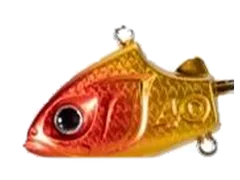
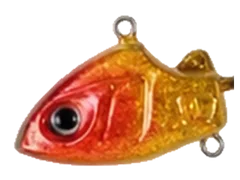
dragon-counter: SHIMANO サーベルマスター 船テンヤ photos from the official colour chart (owner-supplied), 30 ids; deploy
Claude-Session: https://claude.ai/code/session_01KgkKxnQ9YC7pAnWXdiqH87

diff --git a/sites/dragon-counter/CATALOG-UPDATE.md b/sites/dragon-counter/CATALOG-UPDATE.md
@@ -51,7 +51,8 @@
 
 - 元画像は `work/src/<id>.jpg|png`（git には入れない）。出どころは `work/retail.json`（id → url / page / src / name。手で切り抜いたものは `cropped`、頭だけに切り抜き済みで通常処理にするものは `plain: true`）
 - メーカー公式の色別写真：DAIWA（現行品）・JACKALL・START・DUO・HAYABUSA（`tools/tenya_images.py daiwa|jackall|start|duo|hayabusa` で取得）、Major Craft・YAMASHITA・マルシン・HAYABUSA SW409 は公式ページから手動取得
-- 公式に無いもの（SHIMANO 全部・DAIWA 旧型・OWNER・がまかつ・PRO MARINE など）は釣具店の色別商品写真（相模屋・マルニシ・ポイント・ポイント東日本・フィッシングマックス・キャスティング・釣人館 などの Yahoo!店）。店の写真は `retail.json` に載せると「店写真モード」で切り出す（枠線・GLOW バッジ・夜光写真・スナップ・リーダー・フックホルダーを除き、目の位置から頭を探す。同じ店×製品で構図が固定のものは `FIXED` の固定枠）。写真の加工・掲載はオーナーの判断（2026-11-04）
+- SHIMANO サーベルマスター 船テンヤ（10 色）はオーナー提供の公式カラーチャート（透過 PNG）から色ごとに切り出し（`work/retail.json` に出どころ）
+- 公式に無いもの（SHIMANO のそれ以外・DAIWA 旧型・OWNER・がまかつ・PRO MARINE など）は釣具店の色別商品写真（相模屋・マルニシ・ポイント・ポイント東日本・フィッシングマックス・キャスティング・釣人館 などの Yahoo!店）。店の写真は `retail.json` に載せると「店写真モード」で切り出す（枠線・GLOW バッジ・夜光写真・スナップ・リーダー・フックホルダーを除き、目の位置から頭を探す。同じ店×製品で構図が固定のものは `FIXED` の固定枠）。写真の加工・掲載はオーナーの判断（2026-11-04）
 - シマノ公式サイトと Amazon はこの環境から取得できない（403 / 確認ページ）。回避はしない
 - 新しい色を足したら：公式があれば上の取得コマンド、無ければ販売店の写真を `tools/tenya_images.py add <id> <file>` で足す（店の写真なら `work/retail.json` にも id と出どころを書く）。全件書き出しは `tools/tenya_images.py cut`（`cut <id…>` / `cut <メーカー>` で一部だけ）。`pip install scipy` があると速い（無くても動く）
 - 切り出し結果は必ず目で確認する（確認シートを作って見る）。頭の一部が欠ける・枠や文字が混ざる場合は、元画像を頭だけに手で切り抜いて `plain: true` にするのが早い
